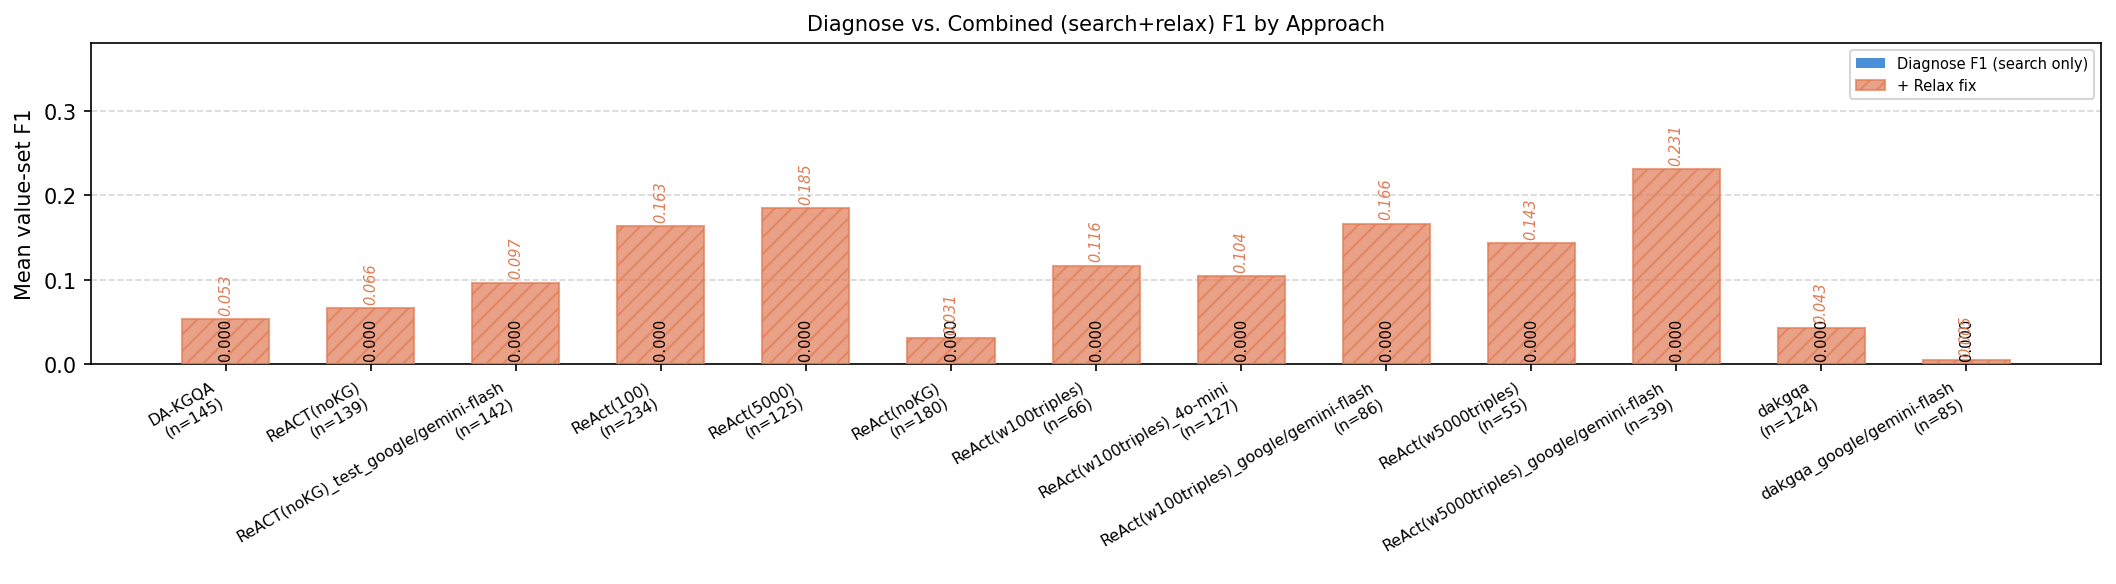
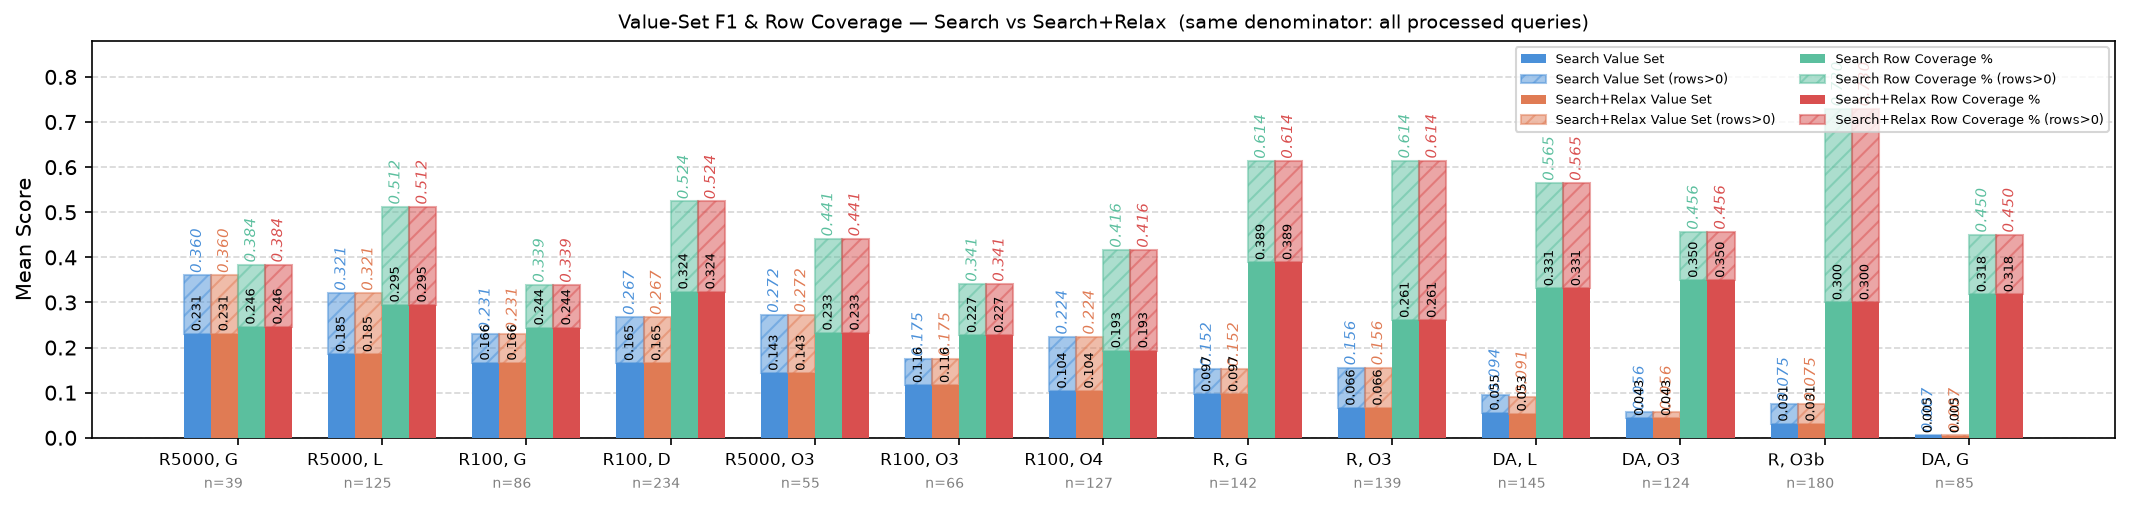
Gate the combined-F1 shaded region on search OR relax returning rows
Previously the "rows>0" hatched highlight on the Search+Relax bars only
fired when relax_result_row_count > 0, so it effectively only lit up for
the handful of queries relax itself fixed. Queries where search alone
already returned rows (relax not attempted or found nothing further)
were counted as misses even though they had rows to score against.

Also brings _plot_approach_f1_combined up to the fuller per-model,
row-coverage-aware version (rename map, per-approach model averaging,
filtered/highlighted bars for both F1 and row coverage), adapted to this
repo's diagnose_*/relax_* column schema.

diff --git a/eval/analyze_results.py b/eval/analyze_results.py
@@ -230,54 +230,210 @@ def _print_error_table(df: pd.DataFrame) -> None:
 
 def _plot_approach_f1_combined(df: pd.DataFrame) -> None:
     """
-    One bar per approach: solid = diagnose (search-only) F1, hatched extension
-    on top = the extra F1 gained once relax's fix (where found) is folded in.
+    One bar per approach: solid = diagnose (search-only) F1 / row coverage %,
+    hatched extension on top = the extra F1 / coverage gained once relax's fix
+    (where found) is folded in. Both series use the same denominator (all
+    processed queries), making the comparison fair.
+
+    Each bar also carries a second, lighter hatch capping the portion of its
+    mean attributable to queries that actually returned some rows to score
+    against — rather than an empty result set, which scores 0 by construction.
+    For the combined series that gate is "diagnose OR relax returned rows":
+    gating on relax alone would wrongly discount a query that search already
+    nailed just because relax wasn't attempted or found nothing further to fix.
+
+    Per-approach means are first averaged within each model_name, then
+    averaged across models, so one high-volume model doesn't dominate an
+    approach that spans several models (e.g. ReAct(100), run on both
+    deepseek-r1 and llama).
     """
-    by_a = (
-        df.groupby("approach")
+    processed = df.copy()
+    if "model_name" not in processed.columns:
+        processed["model_name"] = "unknown"
+
+    # Distinguish "relax not attempted" (NaN) from "attempted but found
+    # nothing better" (0) before filling, so combined_f1's fallback stays correct.
+    relax_mask = processed["relax_value_set_f1"].notna()
+
+    for col in ["diagnose_rows_covered", "diagnose_excess_rows", "relax_rows_covered", "relax_result_row_count"]:
+        processed[col] = processed[col].fillna(0)
+
+    processed["diagnose_result_row_count"] = processed["diagnose_rows_covered"] + processed["diagnose_excess_rows"]
+
+    processed["gt_rows_covered_pct"] = processed["diagnose_rows_covered"] / processed["gt_rows"].replace(0, np.nan)
+    combined_covered = processed["relax_rows_covered"].where(relax_mask, processed["diagnose_rows_covered"])
+    processed["combined_row_cov_pct"] = combined_covered / processed["gt_rows"].replace(0, np.nan)
+
+    # ── Global aggregation (all processed queries — same denominator) ──────────
+    by_ma = (
+        processed.groupby(["model_name", "approach"])
         .agg(
             n=("diagnose_value_set_f1", "count"),
-            diagnose_f1=("diagnose_value_set_f1", "mean"),
-            combined_f1=("combined_f1", "mean"),
+            mean_res=("diagnose_value_set_f1", "mean"),
+            mean_combined=("combined_f1", "mean"),
+            mean_row_cov=("gt_rows_covered_pct", "mean"),
+            mean_combined_row_cov=("combined_row_cov_pct", "mean"),
         )
         .reset_index()
-        .sort_values("diagnose_f1", ascending=False)
     )
+
+    by_a = (
+        by_ma.groupby("approach")
+        .agg(
+            n=("n", "sum"),
+            mean_res=("mean_res", "mean"),
+            mean_combined=("mean_combined", "mean"),
+            mean_row_cov=("mean_row_cov", "mean"),
+            mean_combined_row_cov=("mean_combined_row_cov", "mean"),
+        )
+        .reset_index()
+        .sort_values("mean_res", ascending=False)
+    )
+
     if by_a.empty:
         return
 
-    x = np.arange(len(by_a))
-    diag = by_a["diagnose_f1"].to_numpy()
-    comb = by_a["combined_f1"].to_numpy()
-    delta = np.maximum(comb - diag, 0)
+    # ── Filtered aggregation: search — queries where search returned rows ──────
+    search_hit = processed[processed["diagnose_result_row_count"] > 0]
+    by_a_sf = (
+        search_hit.groupby(["model_name", "approach"])
+        .agg(
+            mean_res_filt=("diagnose_value_set_f1", "mean"),
+            mean_row_cov_filt=("gt_rows_covered_pct", "mean"),
+        )
+        .reset_index()
+        .groupby("approach")
+        .agg(mean_res_filt=("mean_res_filt", "mean"), mean_row_cov_filt=("mean_row_cov_filt", "mean"))
+        .reset_index()
+    )
+    by_a = by_a.merge(by_a_sf, on="approach", how="left")
 
-    fig, ax = plt.subplots(figsize=(max(6, len(by_a) * 1.1), 4))
+    # ── Filtered aggregation: combined — queries where *either* phase (search
+    # or relax) returned rows to score against ──────────────────────────────
+    any_hit = processed[
+        (processed["diagnose_result_row_count"] > 0) | (processed["relax_result_row_count"] > 0)
+    ]
+    by_a_cf = (
+        any_hit.groupby(["model_name", "approach"])
+        .agg(
+            mean_combined_filt=("combined_f1", "mean"),
+            mean_combined_row_cov_filt=("combined_row_cov_pct", "mean"),
+        )
+        .reset_index()
+        .groupby("approach")
+        .agg(
+            mean_combined_filt=("mean_combined_filt", "mean"),
+            mean_combined_row_cov_filt=("mean_combined_row_cov_filt", "mean"),
+        )
+        .reset_index()
+    )
+    by_a = by_a.merge(by_a_cf, on="approach", how="left")
 
-    bars = ax.bar(x, diag, 0.6, label="Diagnose F1 (search only)", color="#4a90d9", zorder=3)
-    ax.bar(x, delta, 0.6, bottom=diag, label="+ Relax fix", color="#e07b54",
-           alpha=0.7, edgecolor="#e07b54", hatch="///", zorder=3)
+    # ── Rename approaches ──────────────────────────────────────────────────────
+    rename_map = {
+        "ReAct(w5000triples)_google/gemini-flash": "R5000, G",
+        "ReAct(5000)": "R5000, L",
+        "ReAct(w5000triples)": "R5000, O3",
+        "ReAct(100)": "R100, D",
+        "ReAct(w100triples)_google/gemini-flash": "R100, G",
+        "ReAct(w100triples)_4o-mini": "R100, O4",
+        "ReAct(w100triples)": "R100, O3",
+        "ReACT(noKG)": "R, O3",
+        "ReACT(noKG)_test_google/gemini-flash": "R, G",
+        "ReAct(noKG)": "R, O3b",
+        "dakgqa": "DA, O3",
+        "DA-KGQA": "DA, L",
+        "dakgqa_google/gemini-flash": "DA, G",
+    }
+    by_a = by_a[by_a["approach"].isin(rename_map.keys())]
+    by_a["approach"] = by_a["approach"].map(lambda a: rename_map.get(a, a))
 
-    for xi, g, c in zip(x, diag, comb):
-        ax.text(xi, g + 0.005, f"{g:.3f}", ha="center", va="bottom", fontsize=7, rotation=90)
-        if c > g:
-            ax.text(xi, c + 0.005, f"{c:.3f}", ha="center", va="bottom", fontsize=7,
-                     rotation=90, color="#e07b54", fontstyle="italic")
+    if by_a.empty:
+        return
 
-    xtick_labels = [f"{a}\n(n={n})" for a, n in zip(by_a["approach"], by_a["n"])]
+    approach_order = by_a["approach"].tolist()
+    x = np.arange(len(approach_order))
+
+    COLORS = {
+        "result":       "#4a90d9",
+        "combined":     "#e07b54",
+        "row_cov":      "#5bbf9e",
+        "comb_row_cov": "#d94f4f",
+    }
+
+    bar_series = [
+        ("Search Value Set", by_a["mean_res"].tolist(), by_a["mean_res_filt"].tolist(), COLORS["result"]),
+        ("Search+Relax Value Set", by_a["mean_combined"].tolist(), by_a["mean_combined_filt"].tolist(), COLORS["combined"]),
+        ("Search Row Coverage %", by_a["mean_row_cov"].tolist(), by_a["mean_row_cov_filt"].tolist(), COLORS["row_cov"]),
+        ("Search+Relax Row Coverage %", by_a["mean_combined_row_cov"].tolist(), by_a["mean_combined_row_cov_filt"].tolist(), COLORS["comb_row_cov"]),
+    ]
+
+    n_series = len(bar_series)
+    total_bar_width = 0.75
+    w = total_bar_width / n_series
+    offsets = np.linspace(-(total_bar_width - w) / 2, (total_bar_width - w) / 2, n_series)
+
+    fig, ax = plt.subplots(figsize=(max(6, len(approach_order) * 1.1), 3.5))
+
+    all_bars = []
+    for offset, (label, global_vals, filt_vals, color) in zip(offsets, bar_series):
+        bars = ax.bar(x + offset, global_vals, w, label=label, color=color, zorder=3)
+        all_bars.extend(bars)
+
+        filt_arr = np.array(filt_vals, dtype=float)
+        glob_arr = np.array(global_vals, dtype=float)
+        delta = np.where(np.isnan(filt_arr), 0, filt_arr - glob_arr)
+        delta = np.maximum(delta, 0)
+
+        hatched_bars = ax.bar(
+            x + offset, delta, w,
+            bottom=glob_arr,
+            color=color, alpha=0.5,
+            edgecolor=color, linewidth=1.0,
+            hatch="///",
+            zorder=3,
+            label=f"{label} (rows>0)",
+        )
+        for bar_h, g, f_val in zip(hatched_bars, glob_arr, filt_arr):
+            if not np.isnan(f_val) and f_val > g:
+                ax.text(bar_h.get_x() + bar_h.get_width() / 2, f_val + 0.005,
+                        f"{f_val:.3f}", ha="center", va="bottom",
+                        fontsize=7, rotation=90, color=color, fontstyle="italic")
+
+    for bar in all_bars:
+        h = bar.get_height()
+        if not np.isnan(h) and h > 0:
+            ax.text(bar.get_x() + bar.get_width() / 2, h + 0.005,
+                    f"{h:.3f}", ha="center", va="bottom", fontsize=6, rotation=90)
+
+    ax.legend(fontsize=6, loc="upper right", ncol=2)
+
+    for i, row in by_a.reset_index(drop=True).iterrows():
+        ax.text(i - 0.1, -0.1, f"n={int(row['n'])}", ha="center", va="top",
+                fontsize=6.5, color="gray",
+                transform=ax.get_xaxis_transform())
 
     ax.set_xticks(x)
-    ax.set_xticklabels(xtick_labels, rotation=30, ha="right", fontsize=7.5)
-    ax.set_ylim(0, min(1.0, max(comb.max(), diag.max()) + 0.15) if len(comb) else 1.0)
-    ax.set_ylabel("Mean value-set F1")
-    ax.set_title("Diagnose vs. Combined (search+relax) F1 by Approach", fontsize=10)
+    ax.set_xticklabels(approach_order, rotation=0, ha="right", fontsize=8)
+
+    active_cols = [
+        "mean_res", "mean_combined", "mean_row_cov", "mean_combined_row_cov",
+        "mean_res_filt", "mean_combined_filt", "mean_row_cov_filt", "mean_combined_row_cov_filt",
+    ]
+    max_val = by_a[active_cols].max().max()
+    ax.set_ylim(0, min(1.0, max_val + 0.15))
     ax.yaxis.grid(True, linestyle="--", alpha=0.5)
     ax.set_axisbelow(True)
-    ax.legend(fontsize=7, loc="upper right")
+    ax.set_ylabel("Mean Score")
+    ax.set_title(
+        "Value-Set F1 & Row Coverage — Search vs Search+Relax  (same denominator: all processed queries)",
+        fontsize=9,
+    )
 
     fig.tight_layout()
     out = "approach_f1_combined.png"
     fig.savefig(out, dpi=150, bbox_inches="tight")
-    print(f"Chart saved to {out}")
+    print(f"\nChart saved to {out}")
     plt.show()
 
 